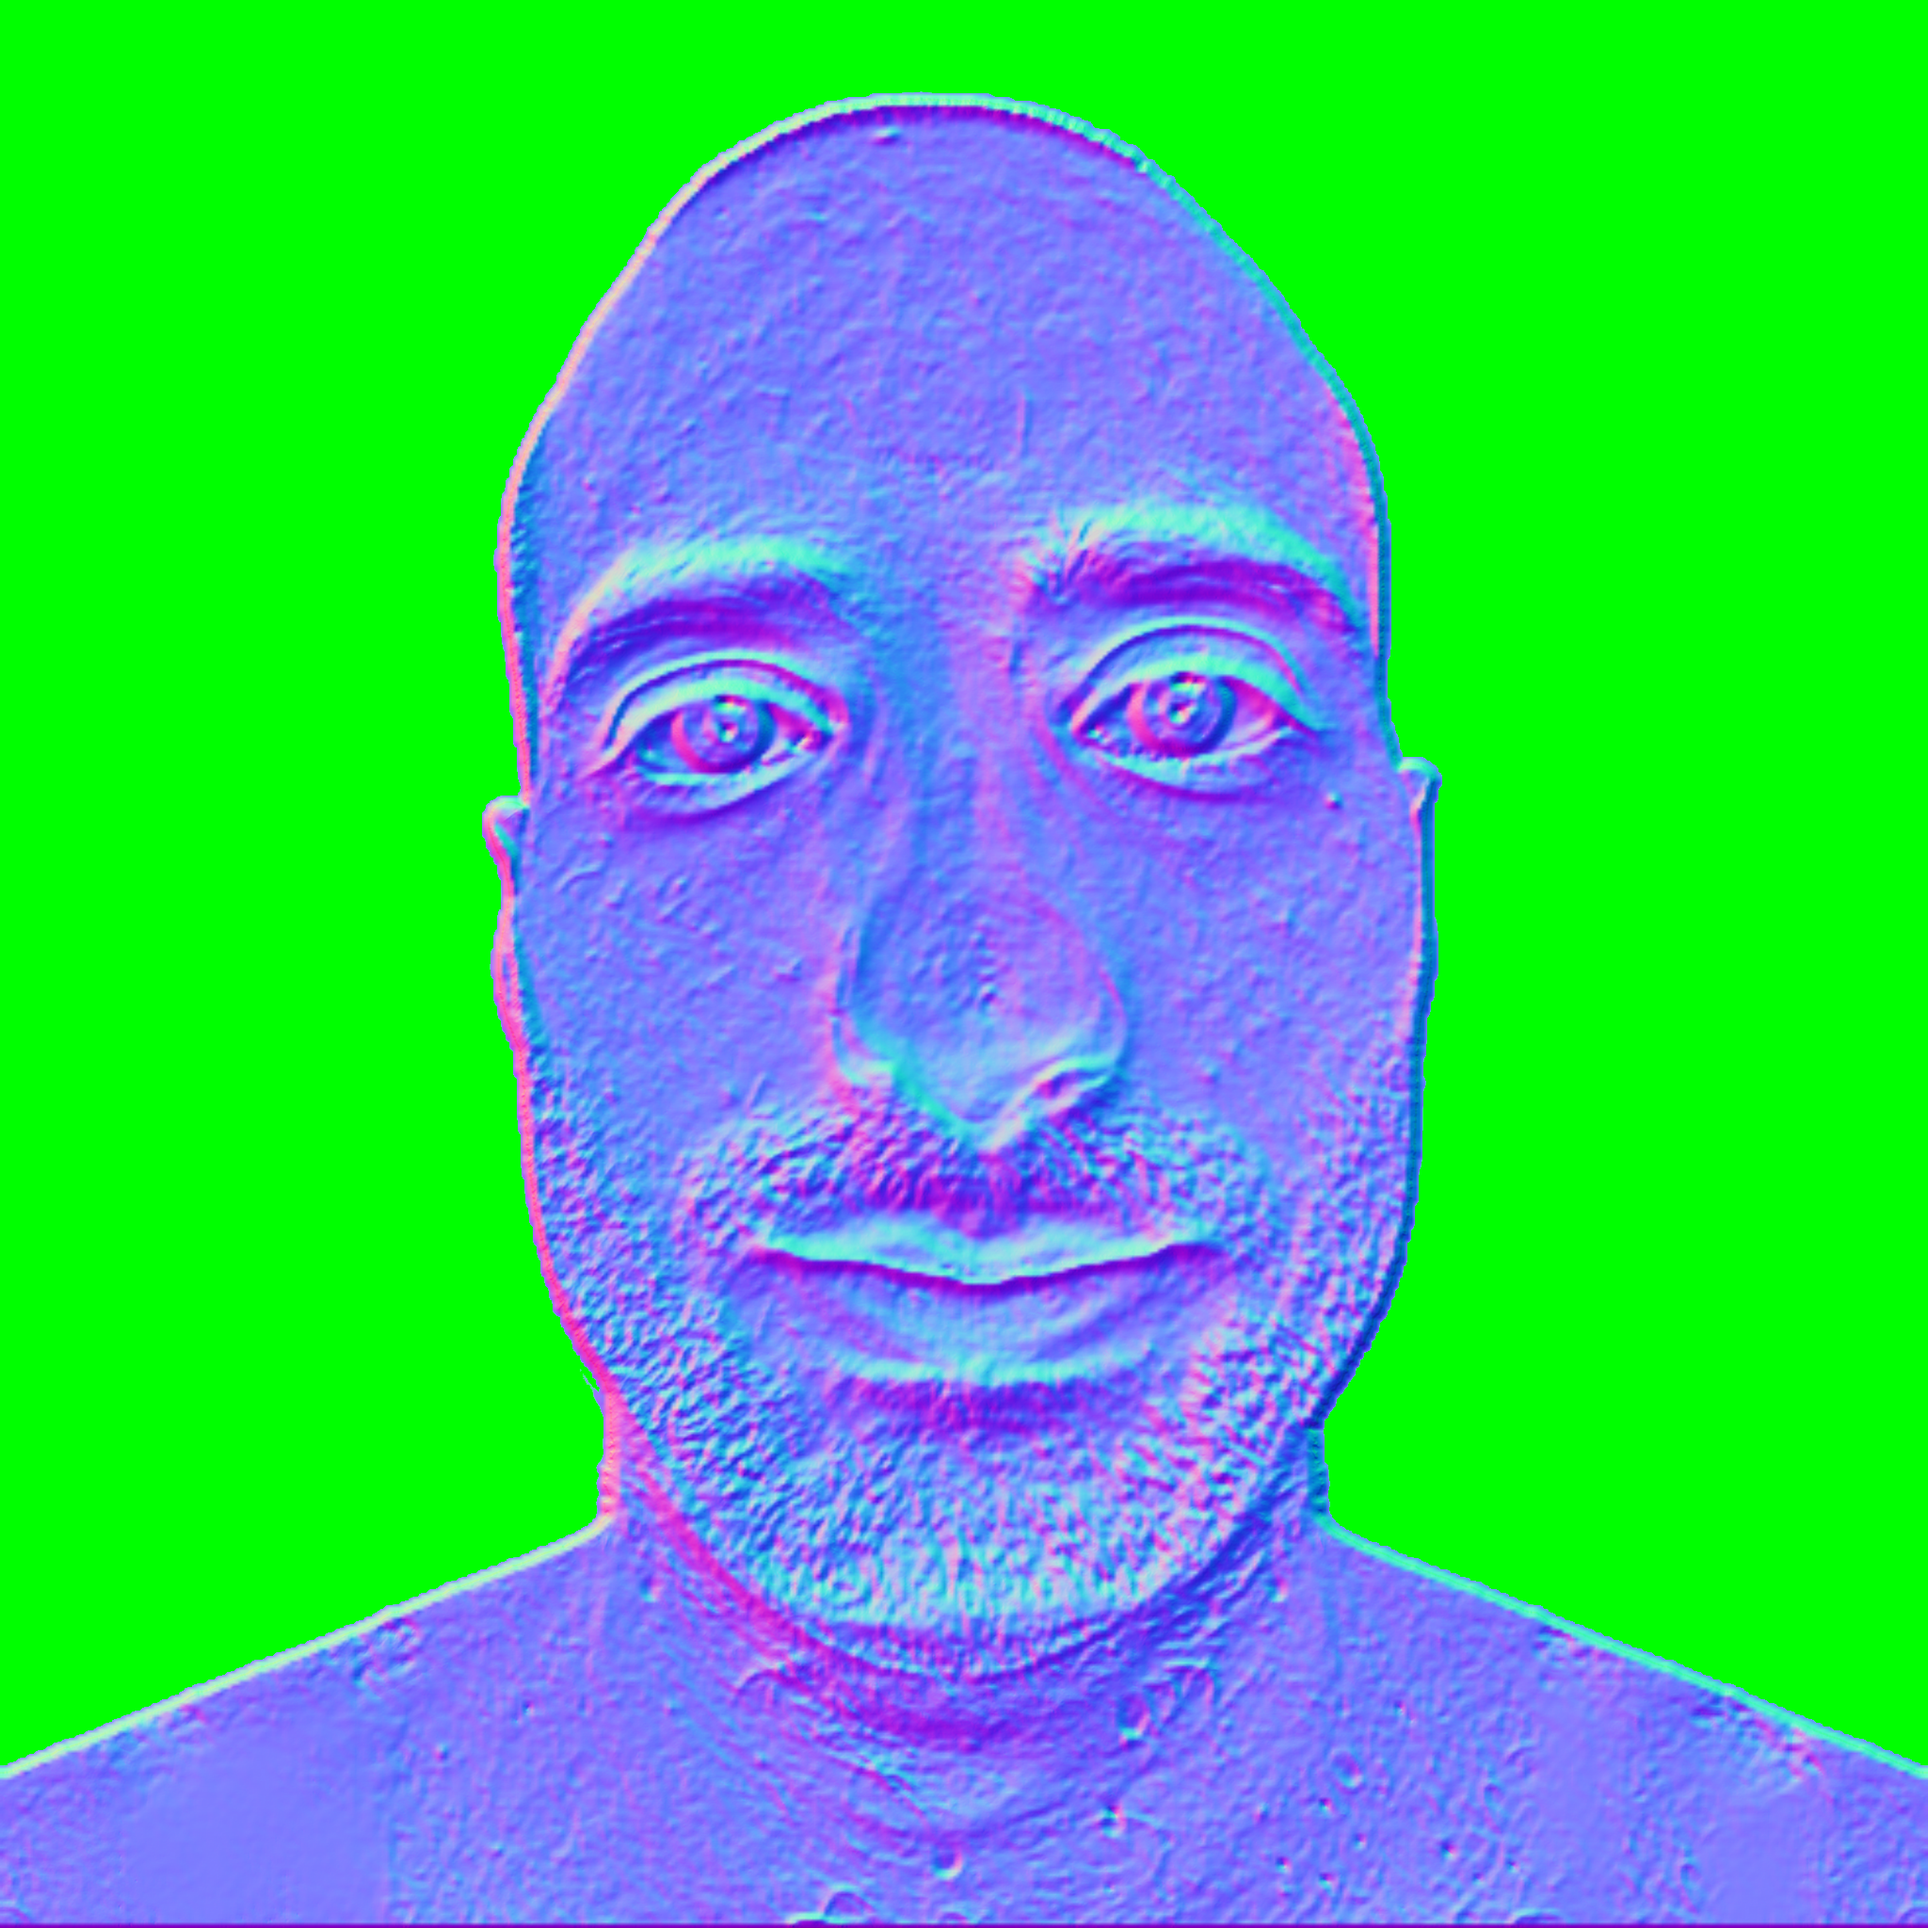
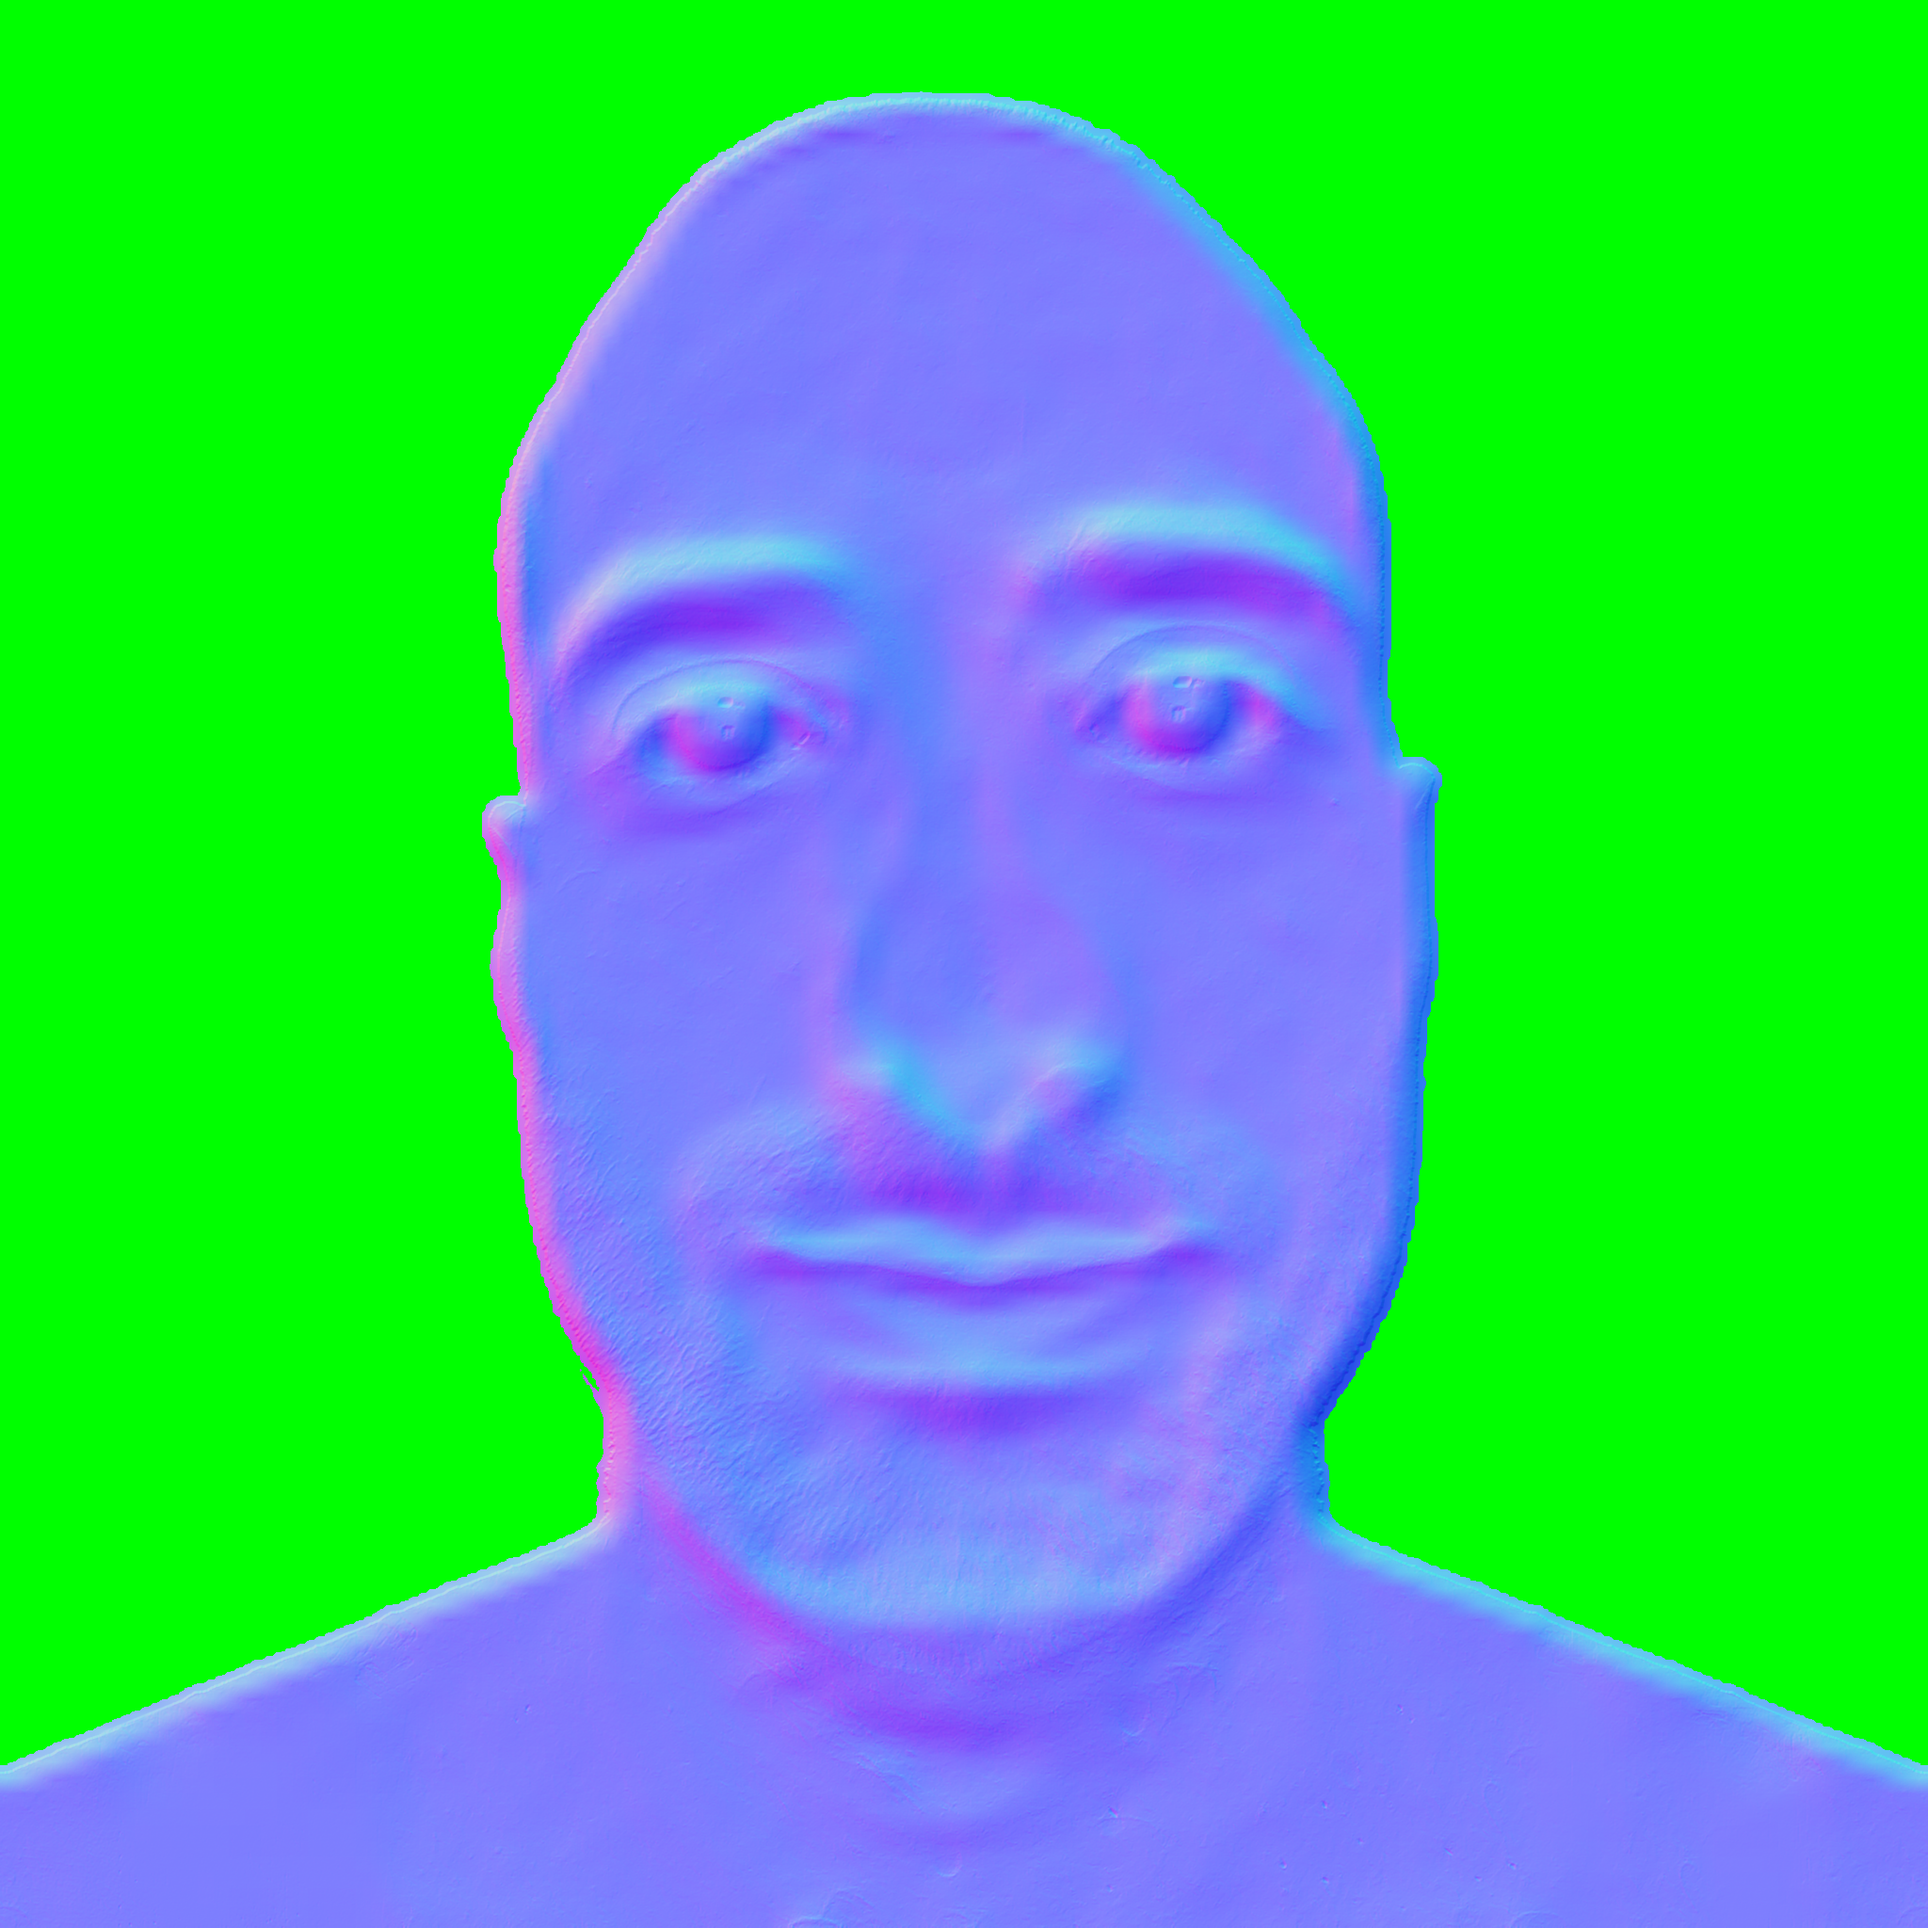
Set softer normal map

diff --git a/README.md b/README.md
@@ -3,9 +3,17 @@
 ## Result ##
 ![Result](/out.gif)
 
-## Test ##
+## Demo ##
 [GitHub.io](https://hdlopesrocha.github.io/matrix-face/)
 
 ## Generate normal map ##
 [ShaderMap](https://shadermap.com/home/)
 
+## Donations ##
+
+BTC: 1HnzpNutCYxwoX5hVsyJ44YGe3m2Lg1jX1
+ETH: 0xA967876545D4a5f6328B271B56ab32E8FfD2C339
+
+Contact me via hdlopesrocha91@gmail.com and I will create your own animation
+
+.
